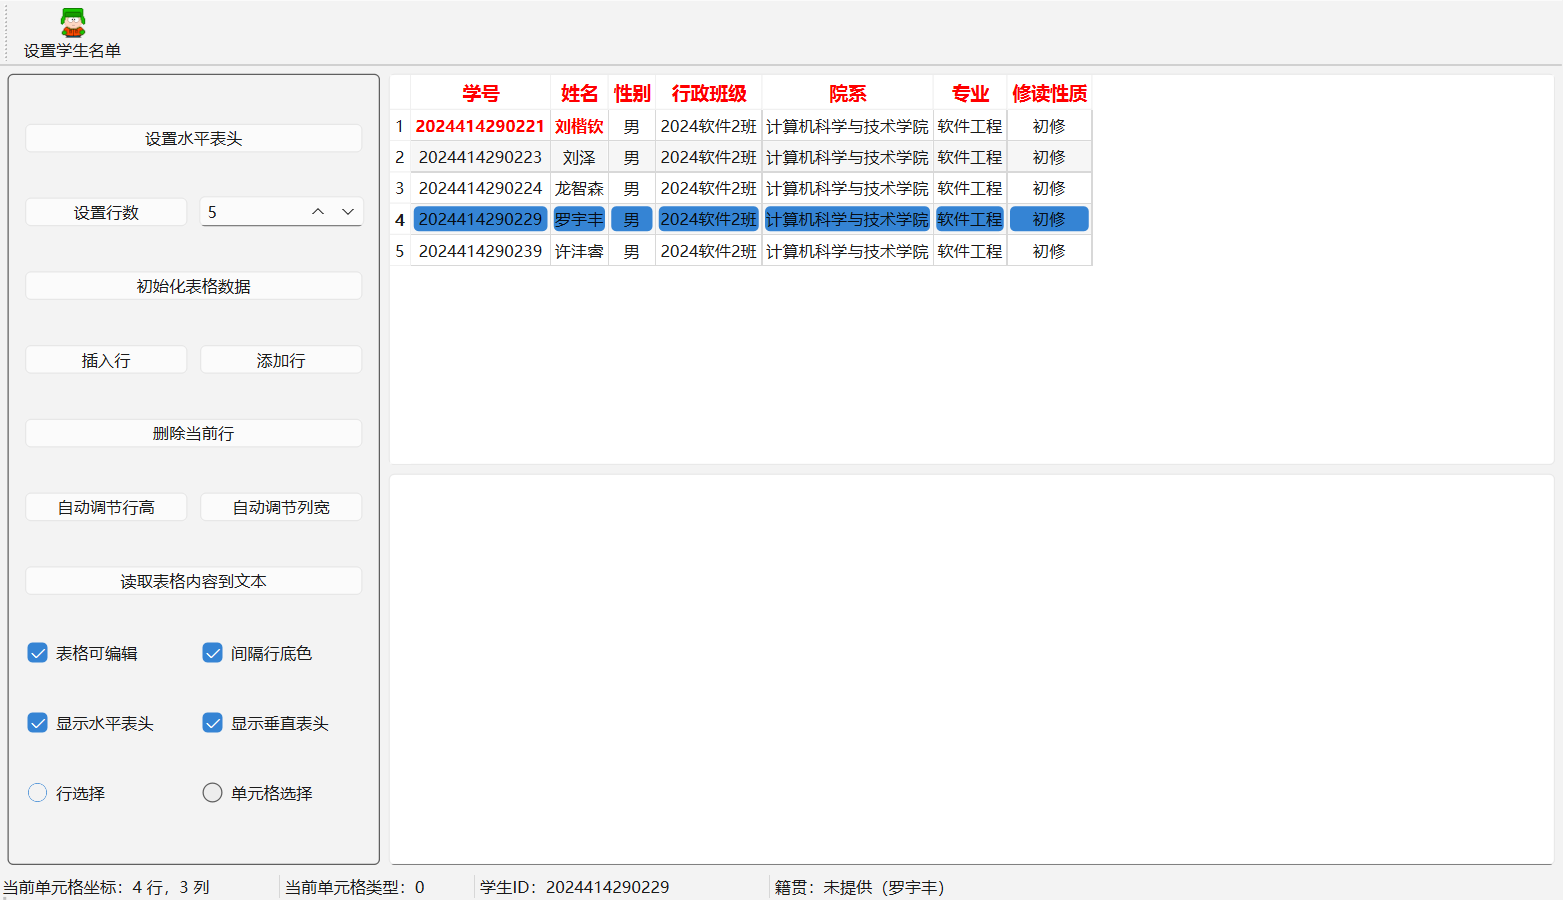
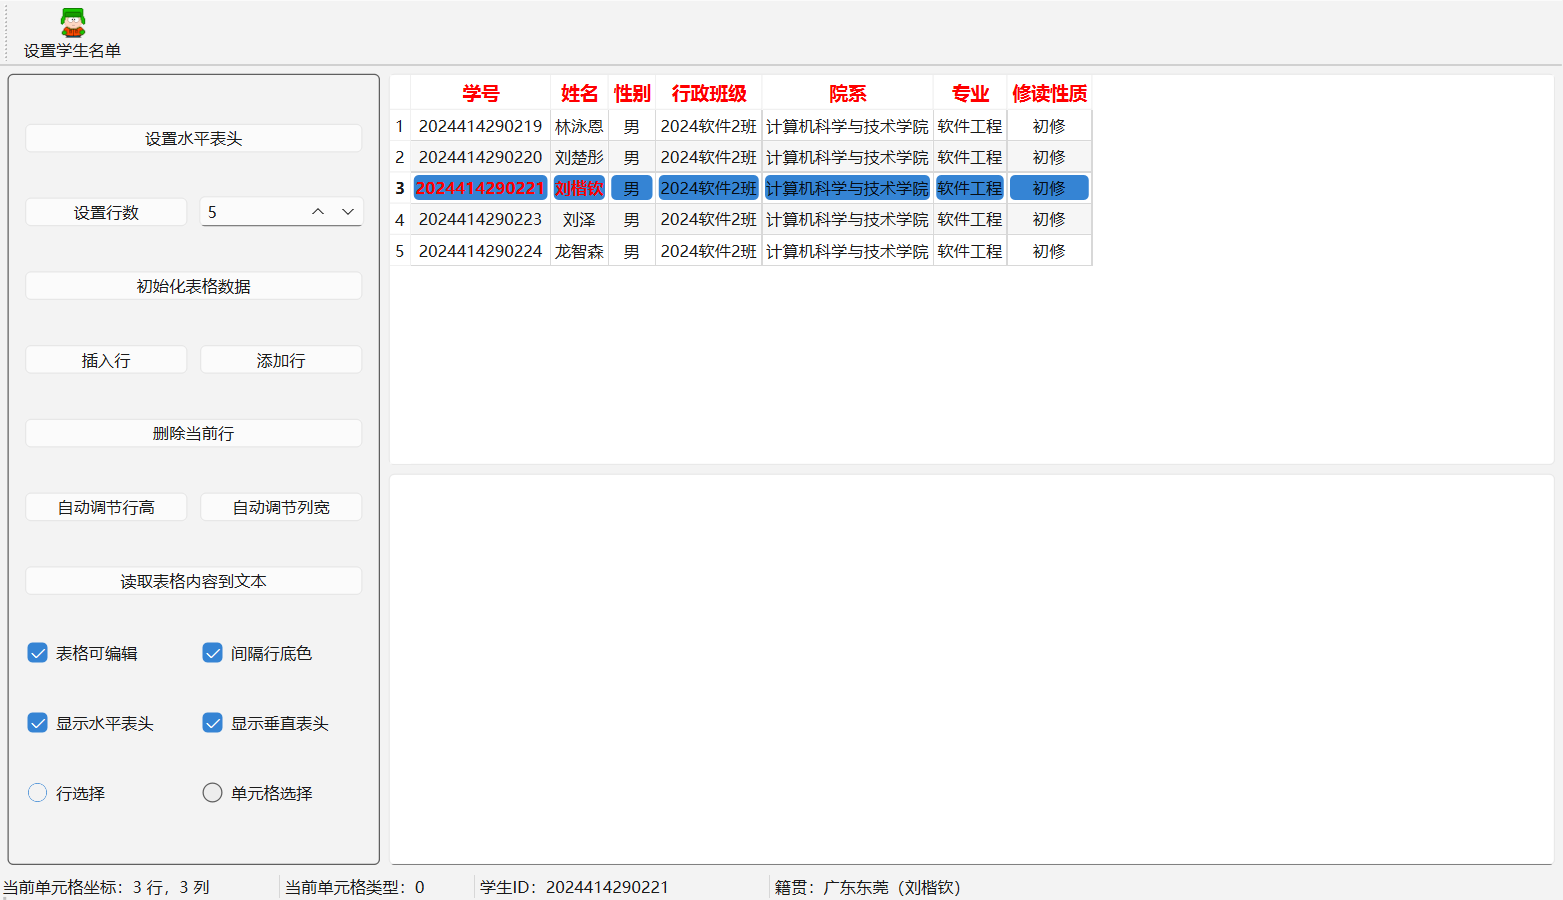
Use adjacent roster students and show Dongguan birthplace

Changed region(s): [[0.2457, 0.1244, 0.7063, 0.3111], [0.5221, 0.9644, 0.6142, 0.9956]]

diff --git a/samp4_13TableWidget/tests/roster_test.cpp b/samp4_13TableWidget/tests/roster_test.cpp
@@ -34,8 +34,8 @@ private slots:
         QCOMPARE(table->rowCount(), 5);
         QCOMPARE(table->columnCount(), 7);
         const QStringList headers = {"学号", "姓名", "性别", "行政班级", "院系", "专业", "修读性质"};
-        const QStringList ids = {"2024414290221", "2024414290223", "2024414290224", "2024414290229", "2024414290239"};
-        const QStringList names = {"刘楷钦", "刘泽", "龙智森", "罗宇丰", "许沣睿"};
+        const QStringList ids = {"2024414290219", "2024414290220", "2024414290221", "2024414290223", "2024414290224"};
+        const QStringList names = {"林泳恩", "刘楚彤", "刘楷钦", "刘泽", "龙智森"};
         for (int col = 0; col < 7; ++col)
             QCOMPARE(table->horizontalHeaderItem(col)->text(), headers.at(col));
         for (int row = 0; row < 5; ++row) {
@@ -43,16 +43,16 @@ private slots:
             for (int col = 0; col < 7; ++col) {
                 QVERIFY(table->item(row,col));
                 QCOMPARE(table->item(row,col)->text(), values.at(col));
-                const bool highlight = row == 0 && col < 2;
+                const bool highlight = row == 2 && col < 2;
                 QCOMPARE(table->item(row,col)->font().bold(), highlight);
                 QCOMPARE(table->item(row,col)->foreground().color() == QColor(Qt::red), highlight);
             }
-            QCOMPARE(table->item(row,1)->data(Qt::UserRole + 1).toString(), QString("未提供"));
+            QCOMPARE(table->item(row,1)->data(Qt::UserRole + 1).toString(), QString("广东东莞"));
             //点击专业列，仍然显示该行姓名 item 关联的籍贯。
             QTest::mouseClick(table->viewport(), Qt::LeftButton, Qt::NoModifier,
                              table->visualItemRect(table->item(row,5)).center());
             QVERIFY(label->text().contains(names.at(row)));
-            QVERIFY(label->text().contains("未提供"));
+            QVERIFY(label->text().contains("广东东莞"));
             QVERIFY(idLabel->text().contains(ids.at(row)));
         }
         //测试数据仅存在于内存，证明状态栏确实读取 UserRole + 1。
@@ -65,14 +65,15 @@ private slots:
         table->clearSelection(); //取消选中，截图能清晰看到红色字体。
         QVERIFY(window.grab().save("after.png"));
         window.findChild<QRadioButton *>("rBtnSelectRow")->click();
-        table->setCurrentCell(3,2);
-        QVERIFY(label->text().contains("罗宇丰"));
+        table->setCurrentCell(2,2);
+        QVERIFY(label->text().contains("刘楷钦"));
+        QVERIFY(label->text().contains("广东东莞"));
         QVERIFY(window.grab().save("selected-row.png"));
 
         auto click = [&](const char *name) { window.findChild<QPushButton *>(name)->click(); };
         click("btnReadToEdit");
         const auto text = window.findChild<QPlainTextEdit *>("textEdit")->toPlainText();
-        QVERIFY(text.contains("许沣睿"));
+        QVERIFY(text.contains("龙智森"));
         QVERIFY(text.contains("初修"));
         QVERIFY(!text.contains("群众"));
         click("btnAppendRow");

diff --git a/README.md b/README.md
@@ -15,17 +15,17 @@
 
 ## 名单和来源
 
-最终名单遵循用户后续指定，替代最初“本人前后各两行”的要求。
+以学号 2024414290221（刘楷钦）定位点名册中的行，取前两行、本人和后两行，按原顺序显示五人。
 
 | 学号 | 姓名 | 班级 | 原点名册 Excel 行号 |
 | --- | --- | --- | --- |
+| 2024414290219 | 林泳恩 | 2024软件2班 | 57 |
+| 2024414290220 | 刘楚彤 | 2024软件2班 | 58 |
 | 2024414290221 | 刘楷钦 | 2024软件2班 | 59 |
 | 2024414290223 | 刘泽 | 2024软件2班 | 60 |
 | 2024414290224 | 龙智森 | 2024软件2班 | 61 |
-| 2024414290229 | 罗宇丰 | 2024软件2班 | 66 |
-| 2024414290239 | 许沣睿 | 2024软件2班 | 74 |
 
-学号、姓名和班级来自本地 `周四点名册.xls` 的 `Sheet1`（B、C、D 列）。用户补充：五人性别均为男，院系为计算机科学与技术学院，修读性质为初修。专业按软件班填写为软件工程。用户表示籍贯不用管，因此使用“未提供”，不编造地名。
+学号、姓名和班级来自本地 `周四点名册.xls` 的 `Sheet1`（B、C、D 列）。用户补充：五人性别均为男，院系为计算机科学与技术学院，修读性质为初修。专业按软件班填写为软件工程。五人的籍贯按最新要求统一为“广东东莞”，并关联在各自的姓名 item 中。
 
 源码中的 `data/students.json` 只保存这五人的必要数据以及来源说明，整份点名册留在本地。JSON 通过 `res.qrc` 编译为程序资源，所以运行时无需安装 Excel，也无需连接原始点名册。修改 JSON 后重新构建即可更新。
 
@@ -71,7 +71,7 @@ if (col < 2 && values.at(0) == "2024414290221") {
 }
 ```
 
-这样改变名单顺序时仍然标记正确的人。最终名单中刘楷钦位于第一行。
+这样改变名单顺序时仍然标记正确的人。最终名单中刘楷钦位于第三行。
 
 ### 4. 姓名 item 关联籍贯
 
@@ -101,7 +101,7 @@ QString birthplace = nameItem->data(Qt::UserRole + 1).toString();
 
 测试项目：`tests/roster_test.pro`。在 Qt Creator 打开后构建运行。Windows 平台下 Qt Test 结果为 3 passed、0 failed（包含初始化、功能测试和清理）。
 
-功能测试覆盖工具按钮实际点击、图标加载、完整五人数据和七个表头、本人两格红色粗体、任意列和整行选择更新状态栏、十三位学号保留、重复加载、空单元格文本读取、增删行、清空所有行和原六列模式恢复。测试在内存中临时写入“测试籍贯”，验证状态栏确实读取姓名 item 的关联数据；生产名单仍为“未提供”。
+功能测试覆盖工具按钮实际点击、图标加载、完整五人数据和七个表头、本人两格红色粗体、任意列和整行选择更新状态栏、十三位学号保留、重复加载、空单元格文本读取、增删行、清空所有行和原六列模式恢复。测试在内存中临时写入“测试籍贯”，验证状态栏确实读取姓名 item 的关联数据；生产名单的籍贯为“广东东莞”。
 
 ## Git 分支
 

diff --git a/samp4_13TableWidget/README.md b/samp4_13TableWidget/README.md
@@ -15,17 +15,17 @@
 
 ## 名单和来源
 
-最终名单遵循用户后续指定，替代最初“本人前后各两行”的要求。
+以学号 2024414290221（刘楷钦）定位点名册中的行，取前两行、本人和后两行，按原顺序显示五人。
 
 | 学号 | 姓名 | 班级 | 原点名册 Excel 行号 |
 | --- | --- | --- | --- |
+| 2024414290219 | 林泳恩 | 2024软件2班 | 57 |
+| 2024414290220 | 刘楚彤 | 2024软件2班 | 58 |
 | 2024414290221 | 刘楷钦 | 2024软件2班 | 59 |
 | 2024414290223 | 刘泽 | 2024软件2班 | 60 |
 | 2024414290224 | 龙智森 | 2024软件2班 | 61 |
-| 2024414290229 | 罗宇丰 | 2024软件2班 | 66 |
-| 2024414290239 | 许沣睿 | 2024软件2班 | 74 |
 
-学号、姓名和班级来自本地 `周四点名册.xls` 的 `Sheet1`（B、C、D 列）。用户补充：五人性别均为男，院系为计算机科学与技术学院，修读性质为初修。专业按软件班填写为软件工程。用户表示籍贯不用管，因此使用“未提供”，不编造地名。
+学号、姓名和班级来自本地 `周四点名册.xls` 的 `Sheet1`（B、C、D 列）。用户补充：五人性别均为男，院系为计算机科学与技术学院，修读性质为初修。专业按软件班填写为软件工程。五人的籍贯按最新要求统一为“广东东莞”，并关联在各自的姓名 item 中。
 
 源码中的 `data/students.json` 只保存这五人的必要数据以及来源说明，整份点名册留在本地。JSON 通过 `res.qrc` 编译为程序资源，所以运行时无需安装 Excel，也无需连接原始点名册。修改 JSON 后重新构建即可更新。
 
@@ -71,7 +71,7 @@ if (col < 2 && values.at(0) == "2024414290221") {
 }
 ```
 
-这样改变名单顺序时仍然标记正确的人。最终名单中刘楷钦位于第一行。
+这样改变名单顺序时仍然标记正确的人。最终名单中刘楷钦位于第三行。
 
 ### 4. 姓名 item 关联籍贯
 
@@ -101,7 +101,7 @@ QString birthplace = nameItem->data(Qt::UserRole + 1).toString();
 
 测试项目：`tests/roster_test.pro`。在 Qt Creator 打开后构建运行。Windows 平台下 Qt Test 结果为 3 passed、0 failed（包含初始化、功能测试和清理）。
 
-功能测试覆盖工具按钮实际点击、图标加载、完整五人数据和七个表头、本人两格红色粗体、任意列和整行选择更新状态栏、十三位学号保留、重复加载、空单元格文本读取、增删行、清空所有行和原六列模式恢复。测试在内存中临时写入“测试籍贯”，验证状态栏确实读取姓名 item 的关联数据；生产名单仍为“未提供”。
+功能测试覆盖工具按钮实际点击、图标加载、完整五人数据和七个表头、本人两格红色粗体、任意列和整行选择更新状态栏、十三位学号保留、重复加载、空单元格文本读取、增删行、清空所有行和原六列模式恢复。测试在内存中临时写入“测试籍贯”，验证状态栏确实读取姓名 item 的关联数据；生产名单的籍贯为“广东东莞”。
 
 ## Git 分支
 
